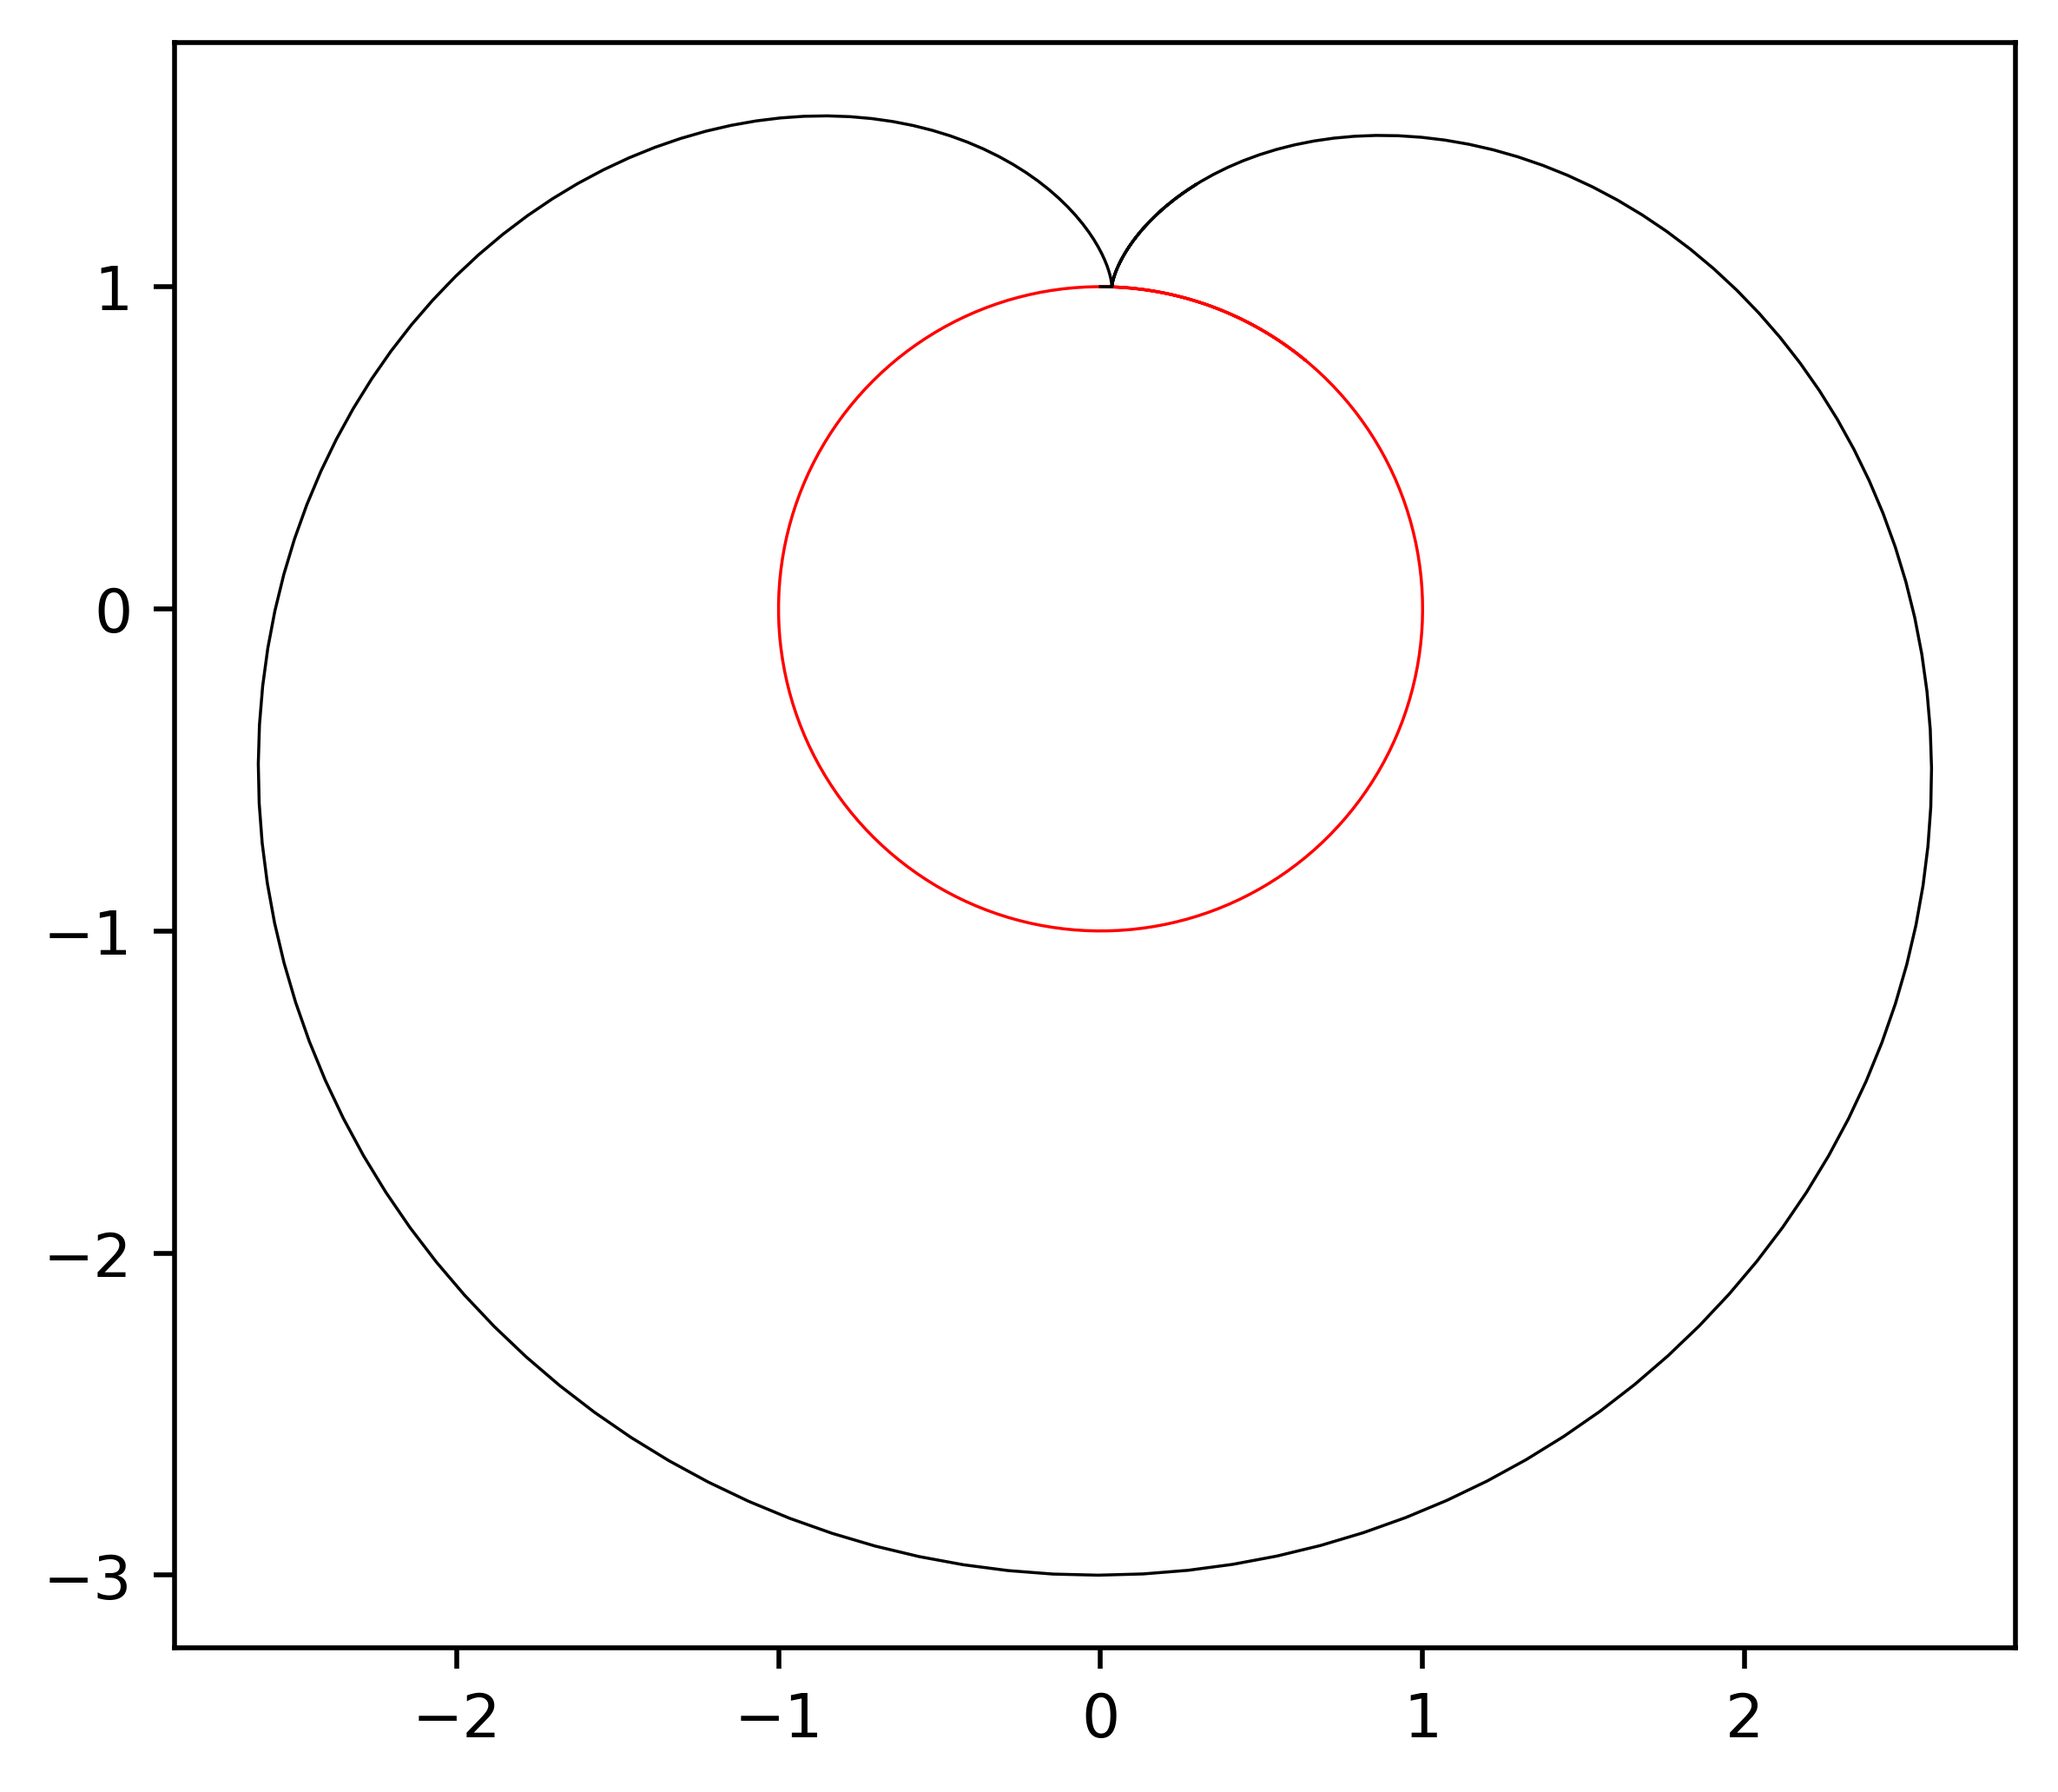
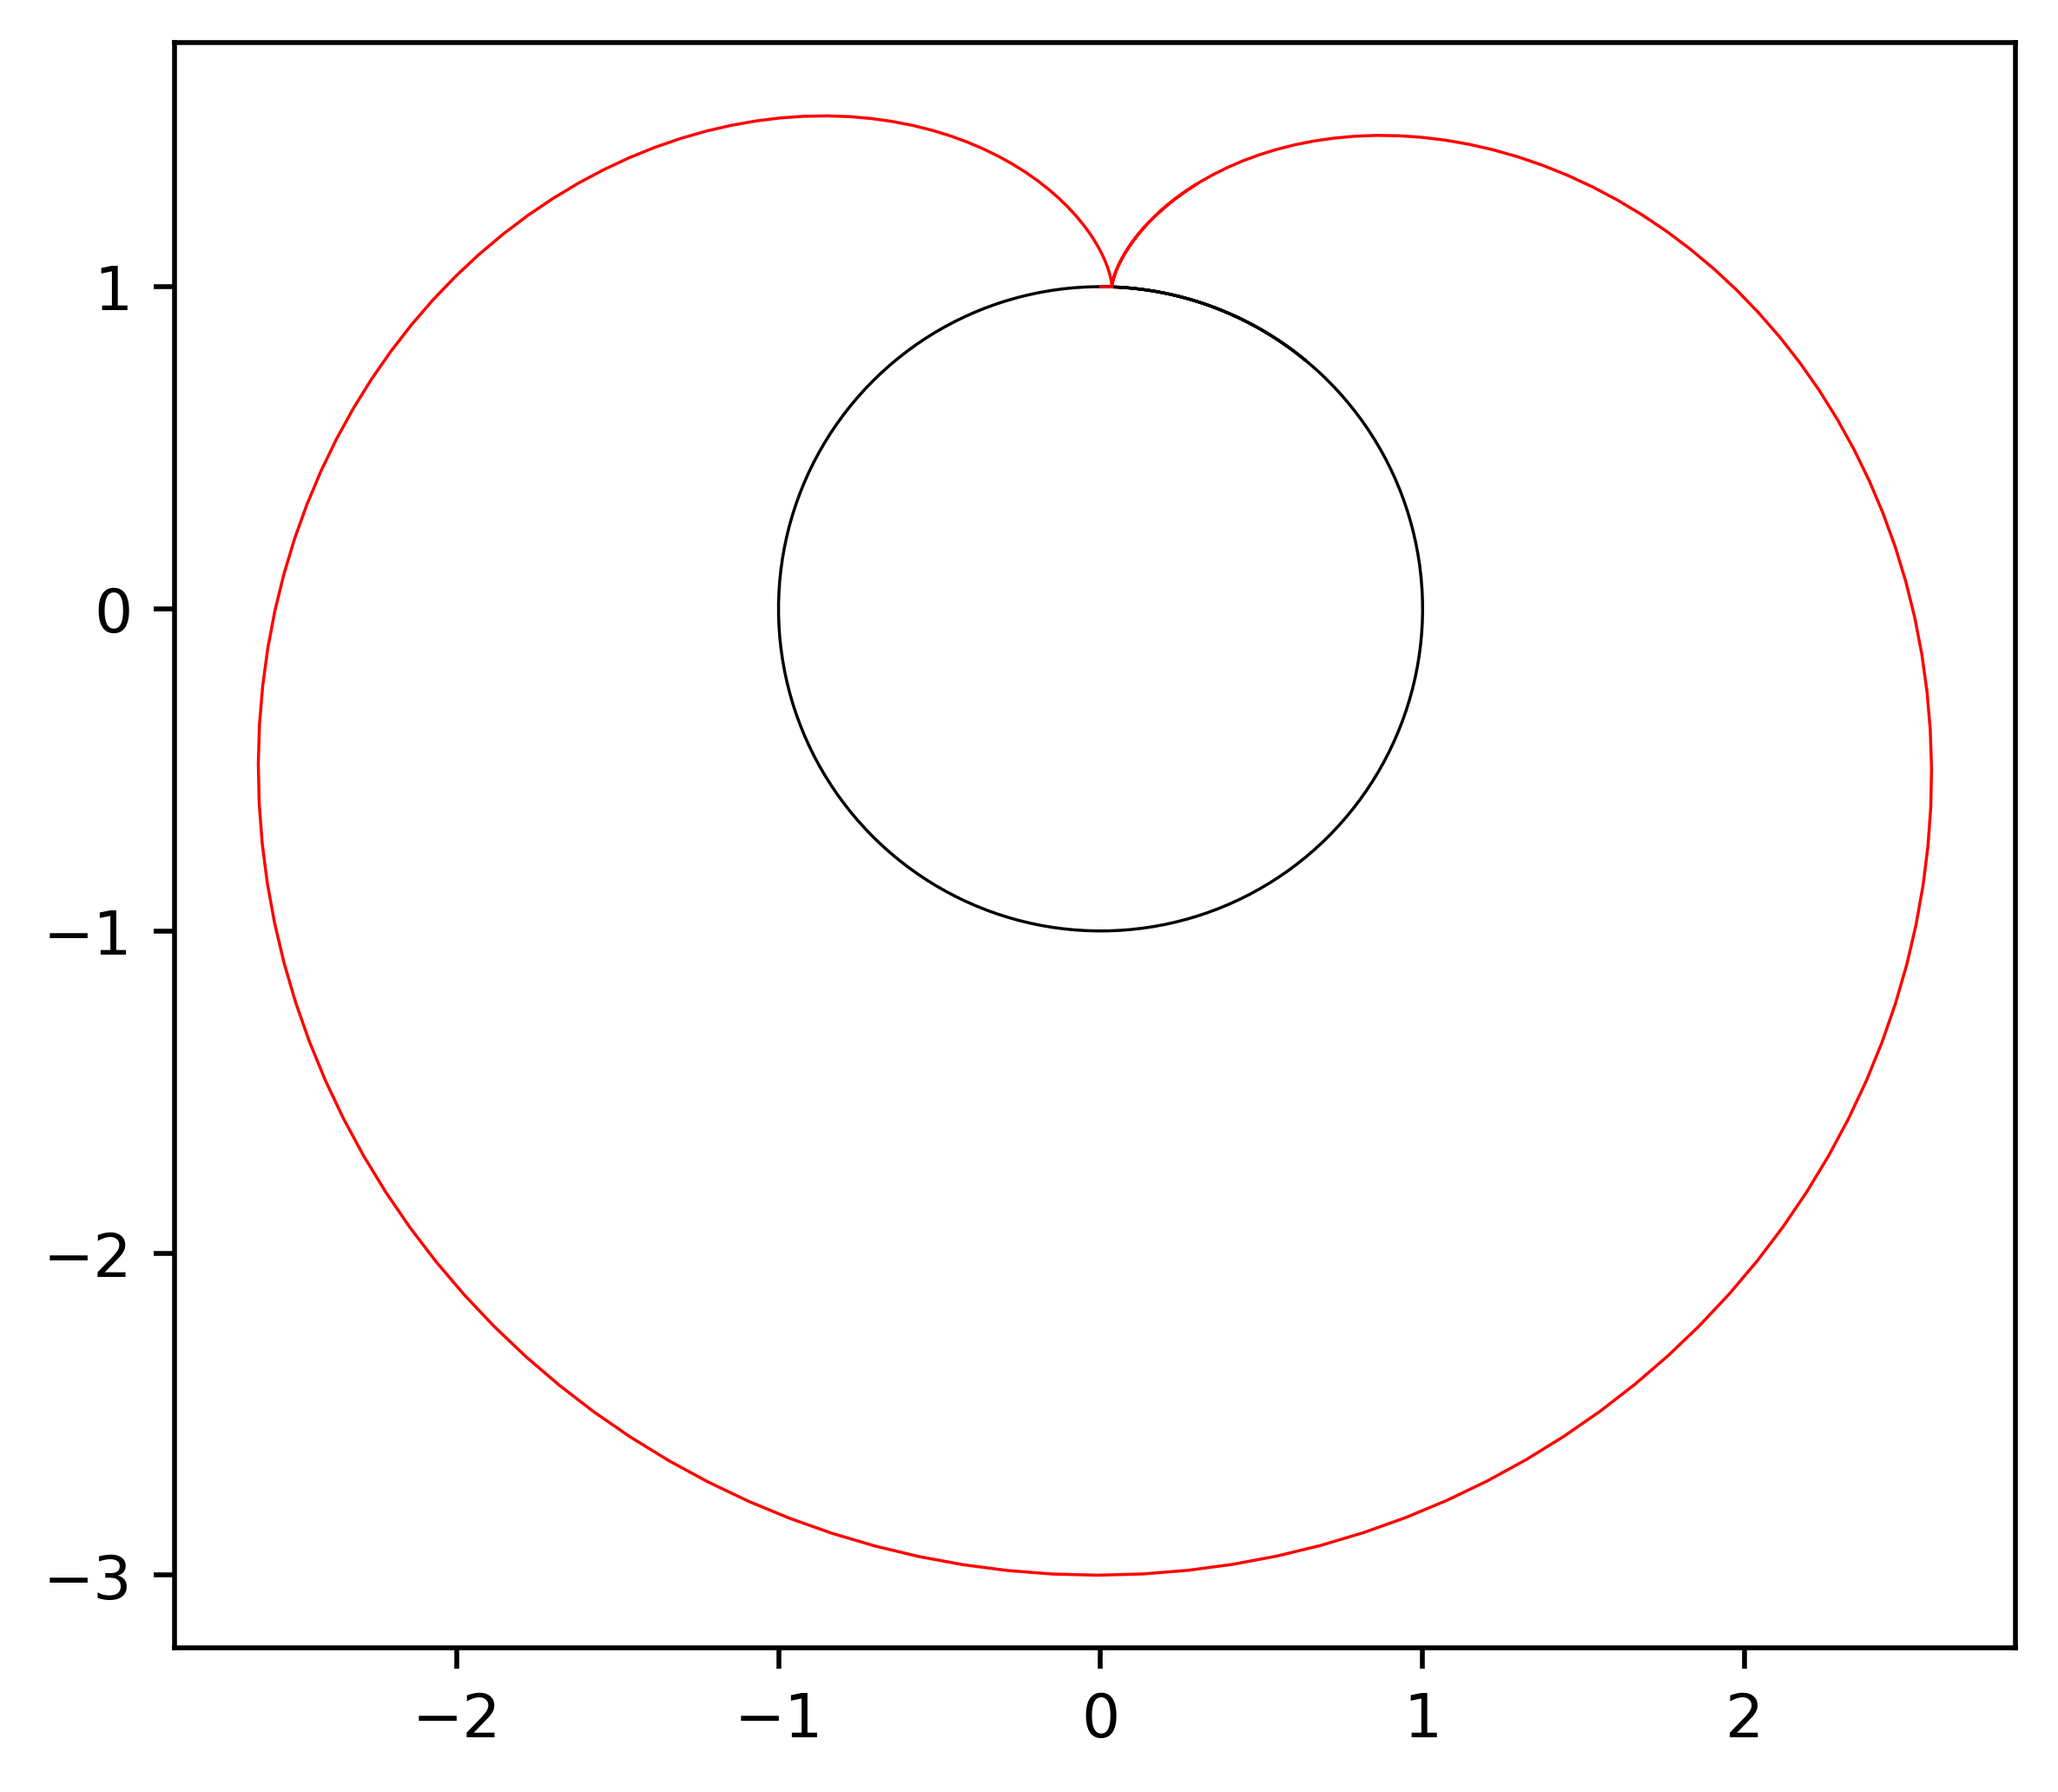
:sparkles: Create a base class SampledPath
Mainly to provide a unified `save` method

Changed region(s): [[0.5308, 0.1241, 0.562, 0.1551]]

diff --git a/cycloidgen.py b/cycloidgen.py
@@ -1,8 +1,35 @@
 from __future__ import annotations
-from scipy import integrate
+
+from typing import Sequence
+
 import matplotlib.pyplot as plt
 import numpy as np
 import sympy as sp
+from scipy import integrate
+
+
+class SampledPath:
+    def __init__(self, begin: float = 0, end: float = 10, num: int = 50):
+        self.begin = begin
+        self.end = end
+        self.num = num
+
+        self.points = np.column_stack(
+            (np.linspace(begin, end, num), np.zeros((num, 2), dtype=float))
+        )
+
+    def __repr__(self) -> str:
+        return f"SampledPath(begin={self.begin}, end={self.end}, num={self.num})"
+
+    def __getitem__(self, key):
+        return self.points[key]
+
+    def save(self, filename: str, delimeter: str = "\t") -> None:
+        fmt = "{t}{delimeter}{x}{delimeter}{y}\n"
+        with open(filename, "w", encoding="utf-8") as fout:
+            fout.write(fmt.format(t="t", x="x", y="y", delimeter=delimeter))
+            for t, x, y in self.points:
+                fout.write(fmt.format(t=t, x=x, y=y, delimeter=delimeter))
 
 
 class ParametricCurve2d:
@@ -35,8 +62,14 @@ class ParametricCurve2d:
             )
         return self._deriv
 
+    def sample(self, begin: float = 1, end: float = 10, num: int = 50) -> SampledPath:
+        samples = SampledPath(begin, end, num)
+        for i, t in enumerate(samples.points[:, 0]):
+            samples.points[i, 1:] = self(t)
+        return samples
 
-class Cycloid:
+
+class Cycloid(SampledPath):
     def __init__(
         self,
         base_curve: ParametricCurve2d,
@@ -45,17 +78,14 @@ class Cycloid:
         end: float = 10,
         num: int = 50,
     ):
+        super().__init__(begin, end, num)
+
         self.base_curve = base_curve
         self.radius = radius
-        self.begin = begin
-        self.end = end
-        self.num = num
-
-        self._points = np.empty((num, 3), dtype=float)
 
         t_prev = begin
         theta = 0
-        for i, t in enumerate(np.linspace(begin, end, num)):
+        for i, t in enumerate(self.points[:, 0]):
             tangent = base_curve.deriv(t) / base_curve.deriv.norm(t)
             rotate = np.array(
                 [
@@ -63,26 +93,20 @@ class Cycloid:
                     [1 - np.cos(theta), -np.sin(theta)],
                 ]
             )
-            self._points[i] = t, *(base_curve(t) + radius * rotate @ tangent)
+            self.points[i, 1:] = base_curve(t) + radius * rotate @ tangent
             theta += integrate.quad(base_curve.deriv.norm, t_prev, t)[0] / radius
             t_prev = t
 
-    def __getitem__(self, key):
-        return self._points[key]
-
-    def __repr__(self):
-        return f"Cycloid({self.base_curve}, )"
-
-    def save(self, filename: str, delimeter: str = "\t") -> None:
-        fmt = "{t}{delimeter}{x}{delimeter}{y}\n"
-        with open(filename, "w", encoding="utf-8") as fout:
-            fout.write(fmt.format(t="t", x="x", y="y", delimeter=delimeter))
-            for t, x, y in self._points:
-                fout.write(fmt.format(t=t, x=x, y=y, delimeter=delimeter))
+    def __repr__(self) -> str:
+        return f"Cycloid({self.base_curve}, radius={self.radius}, begin={self.begin}, end={self.end}, num={self.num})"
 
 
 def plot_curves(
-    curve_samples, colors, filename: str, save: bool = True, show: bool = False
+    curve_samples: Sequence[SampledPath],
+    colors: Sequence[str],
+    filename: str,
+    save: bool = True,
+    show: bool = False,
 ) -> None:
     """Show `curve_samples` via matplotlib."""
     fig = plt.figure(1)
@@ -103,20 +127,17 @@ def plot_curves(
 
 # Constants
 RADIUS = 1
-START = 0
+BEGIN = 0
 END = 6.97
 NUM = 200
 
 _t = sp.Symbol("t")
 circle = ParametricCurve2d(sp.sin(_t), sp.cos(_t))
-epicycloid = Cycloid(circle, radius=RADIUS, begin=START, end=END, num=NUM)
-
-circle_samp = np.column_stack(
-    (epicycloid[:, 0], np.vstack([circle(t) for t in epicycloid[:, 0]]))
-)
+circle_samp = circle.sample(BEGIN, END, NUM)
+epicycloid = Cycloid(circle, radius=RADIUS, begin=BEGIN, end=END, num=NUM)
 
 # Save data for other visualization tools, e.g., TikZ.
 epicycloid.save("cycloid.dat")
 
 # Save fig
-plot_curves([circle_samp, epicycloid], ["r", "k"], "cycloid.png")
+plot_curves((circle_samp, epicycloid), "kr", "cycloid.png")
